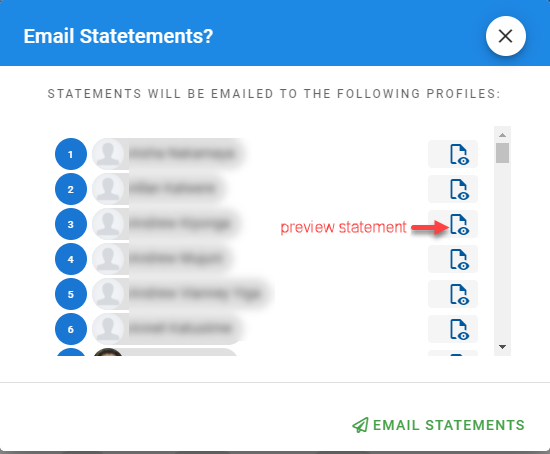
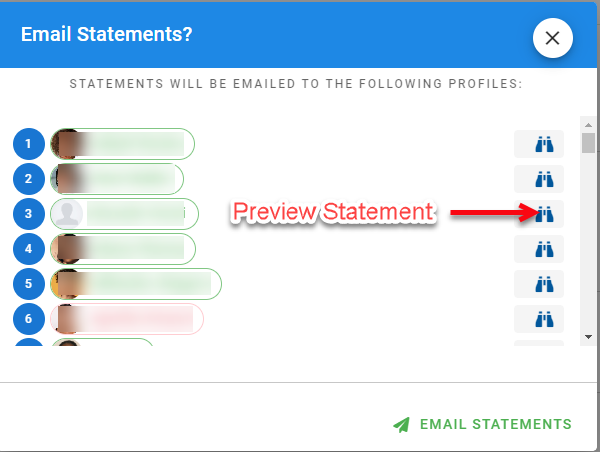
updated member accounts

diff --git a/admin-modules/member-accounts.md b/admin-modules/member-accounts.md
@@ -1,13 +1,13 @@
 # Member accounts
-!> This page can only be accessed by the [`Admin`](#admin-group), [`Treasurer`](#treasurer-group) or member with the [`finance_write`](#finance_write) or [`manage_member`](#manage_member) permissions.
+The `Member Accounts` module is used to administer the profile records of the fund members.
 
 <p align="center">
     <img src="images/9.0_Members_Banner.png" width="600px" style="object-fit:contain" alt="Members Banner">
 </p>
 
-This section is used to administer the records of the fund members. There are several sections at the administrator’s disposal.
-
 ## Accessing the Member accounts module
+
+!> This page can only be accessed by the [`Admin`](#admin-group), [`Treasurer`](#treasurer-group) or member with the [`finance_write`](#finance_write) or [`manage_member`](#manage_member) permissions.
 
 To access the Member Accounts module, click on the navigation menu as follows : `Admin Menu` ->`Users` -> `Member Accounts`.
 
@@ -15,8 +15,15 @@ To access the Member Accounts module, click on the navigation menu as follows : 
     <img src="images/9.1_Members_Menu.png" height="400px" style="object-fit:contain" alt="Member Accounts Menu">
 </p>
 
+ The landing page of the module is divived into 3 sections: 
+- [`Member Profiles`](#member-profiles) - to edit an individual member’s profile. It can be used to add new users or edit such records as Name, email address, account, profile image or address.
+- [`Security Groups`](#security-groups) - used to easily place login accounts into groups for which appropriate permissions can be assigned.
+-  [`Accounts`](#accounts)
+
+
+
 ## Member Profiles
-The Member Profiles is used to edit an individual member’s profile. It can be used to add new users or edit such records as Name, email address, account, profile image or address.
+The Member Profiles is used to manage an individual member’s login profile. It can be used to add new users or edit such records as Name, email address, account, profile image or address.
 
 <p align="center">
     <img src="images/9.1_Member_Profiles.png" height="400px" style="object-fit:contain" alt="Member Profiles">
@@ -87,30 +94,47 @@ In the `New Date Range` page, provide the following information:
 - `Description` – Additional information regarding the participation date record.
 - `Leave Memo` – Additional information that can be added when the participant left.
 
-<!-- ?> **Note** If there are no participation date records that include the current date, the member's account will be marked as `inactive`. -->
 
 ### Send Statements
+As part of the regular updates given to members, the [`Treasurer`](#treasurer-group) or [`Admin`](#admin-group) can send a statement financial statement by email to any or all members so that they are kept up to date even if he or she does not access the system. Follow the steps outlined below to to send statements by email to the members.
+
 <!-- tabs:start -->
-#### **Statements Button  **
+#### **Initiate  **
+Click on the `STATEMENTS` button to start the process.
 <p align="center">
-    <img src="images/9.3.0_Statements_Button.png" height="400px" style="object-fit:contain" alt="Statements Button">
+  <img src="images/9.3.0_Statements_Button.png" height="200px" style="object-fit:contain" alt="Statements Button">
 </p>
-#### **Select Recipients **
- To send multiple email statements use the checkboxes to select the members and the `Email statements` button. 
 
- ![alt text](../images/9.3.1_Email_Selected.png "Email statements to selected") 
- 
- To email statements to an individual member use the Send email button next to each member's name.
+<p align="center">
+  Wait for the financial data to finish loading and the email statements controls to become visible.
+  <img src="images/9.3.0_Statements_Loading_Progress.png" height="200px" style="object-fit:contain" alt="Statements Loading">
+</p>
 
-![alt text](../images/9.3.2_Email_Individual.png ":size=x100 Email statements to individual")
 
-#### ** Email confirm dialog **
+#### **Email Controls **
+ Once the data is loaded and the controls become available, you can use them to select the profiles that you want to send  email statements to. 
+
+ <p align="center">
+  <img src="images/9.3.1_Email_Selected.png" height="400px" style="object-fit:contain" alt="Email Selection Controls">
+</p>
+
+#### ** Confirm dialog **
 The email dialog is displayed with the member account(s) to send the email statement to. Before sending, you can preview the statement.
 
-![alt text](../images/9.3_Email_Statements.png ":size=x200 send statements dialog")
+<p align="center">
+  <img src="images/9.3_Email_Statements.png" height="400px" style="object-fit:contain" alt="Email Statements Dialog">
+</p>
 
 #### **Preview Statement**
- ![alt text](../images/9.3_Email_Preview.png ":size=x300 statement preview")
+ <p align="center">
+  <img src="images/9.3_Email_Preview.png" height="400px" style="object-fit:contain" alt="Email Statements Preview">
+</p>
+
+#### **Send Statement**
+When ready use the `Email Statements` -> `Send` buttons to send the statements the the selected members.
+ <p align="center">
+  <img src="images/9.3_Email_Statements_Send.png" height="400px" style="object-fit:contain" alt="Email Statements Send">
+</p>
 
 <!-- tabs:end -->
 
